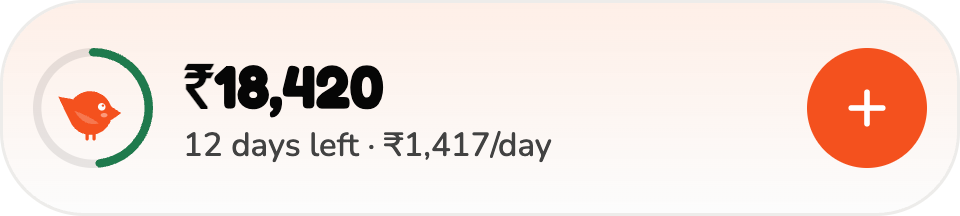
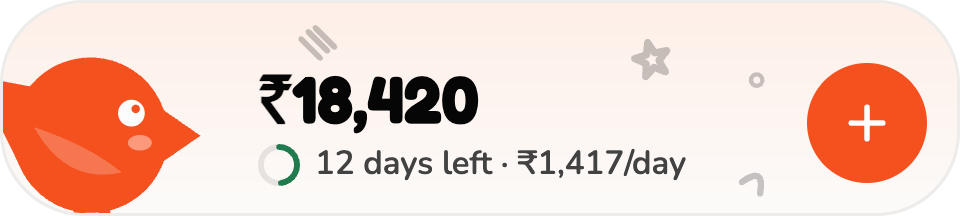
feat(widgets): bar widget gets the peeking bird, bolder band doodles, true pill chips
The 4x1 bar still had the ring-and-bird header. It now matches the other
two: the bird hangs off the left edge, the number sits beside it with the
small ring gauge and per-day line, and the + stays at the right, over its
own doodle set and the mood wash. The bar takes its cell width now so the
doodles scale to it.

The large widget's band doodles were a whisper on a real screen, so the
wide and strip sets draw bigger and at 1.6x the square card's opacity.

The quick-log chips and + buttons used a 100dp corner radius. Android's
GradientDrawable doesn't clamp that past half the height; it draws oval
ends, which is what the chips looked like on device. Radius is now half
the height everywhere.

diff --git a/src/widgets/EnvelopeBarWidget.tsx b/src/widgets/EnvelopeBarWidget.tsx
@@ -1,70 +1,90 @@
 // The 4x1 "bar" widget: one line, no resize. Same snapshot as the large
-// widget: the bird ring, the hero number with days left and per-day beside
-// it, and a round + to log.
-import { FlexWidget, SvgWidget, TextWidget } from 'react-native-android-widget'
+// widget: the bird peeking in off the left edge, the hero number with the
+// ring gauge, days left and per-day under it, and a round + to log.
+import { FlexWidget, OverlapWidget, SvgWidget, TextWidget } from 'react-native-android-widget'
 import type { ThemeTokens } from '@/src/theme/tokens'
 import { fontFamily } from '@/src/theme/fonts'
 import { heroFontSize, widgetMood, withPerDay, type WidgetData } from './data'
 import { WidgetSurface, color } from './surface'
 import { plusSvg } from './icons'
-import { birdRingFrames, birdRingSvg, FRAME_MS } from './bird'
+import { birdFrames, birdSvg, FRAME_MS, heroTint, ringSvg } from './bird'
+import { doodlesSvg } from './doodles'
 
 const LOG_URI = 'envelope://modals/log-expense'
 
 export function EnvelopeBarWidget({
   tokens,
   scheme,
-  height,
+  width = 320,
+  height = 64,
   ...data
 }: WidgetData & {
   tokens: ThemeTokens
   scheme: 'light' | 'dark'
-  /** Cell height in dp, when known. The provider's floor is 40dp, where a
-   *  40dp ring plus padding would clip; most launchers hand out far more. */
+  /** Cell size in dp, when known. The provider's floor is 40dp tall, where
+   *  the two text lines alone fill the card; most launchers hand out far more. */
+  width?: number
   height?: number
 }) {
   const mood = widgetMood(data)
-  const ring = Math.max(28, Math.min(40, (height ?? 64) - 12))
+  const plus = Math.max(28, Math.min(40, height - 12))
+  // Taller than the card so the head clips at the top and the feet sit on
+  // the bottom edge: peeking in, not placed.
+  const bird = Math.round(height * 1.3)
+  const birdW = bird - Math.round(bird * 0.16)
   return (
-    <WidgetSurface
-      tokens={tokens}
-      scheme={scheme}
-      style={{ paddingLeft: 10, paddingRight: 10, paddingVertical: 6, flexDirection: 'row', alignItems: 'center' }}
-    >
-      <SvgWidget svg={birdRingSvg({ mood, leftPct: data.leftPct, tokens, scheme })} frames={birdRingFrames({ mood, leftPct: data.leftPct, tokens, scheme })} frameInterval={FRAME_MS} style={{ width: ring, height: ring }} />
-      <FlexWidget style={{ flex: 1, flexDirection: 'column', marginLeft: 10, marginRight: 8 }}>
-        <TextWidget
-          text={data.totalLeft}
-          truncate="END"
-          maxLines={1}
-          style={{
-            fontSize: heroFontSize(data.totalLeft, 20),
-            fontFamily: fontFamily.displayBold,
-            color: color(data.overspent ? tokens.coral : tokens.text),
-          }}
-        />
-        <TextWidget
-          text={withPerDay(data)}
-          truncate="END"
-          maxLines={1}
-          style={{ fontSize: 11, fontFamily: fontFamily.bodyMedium, color: color(tokens.text2) }}
-        />
-      </FlexWidget>
-      <FlexWidget
-        clickAction="OPEN_URI"
-        clickActionData={{ uri: LOG_URI }}
-        accessibilityLabel="Log an expense"
-        style={{
-          width: ring,
-          height: ring,
-          alignItems: 'center',
-          justifyContent: 'center',
-          borderRadius: 100,
-          backgroundColor: color(tokens.accent),
-        }}
-      >
-        <SvgWidget svg={plusSvg(tokens.onAccent)} style={{ width: 18, height: 18 }} />
-      </FlexWidget>
+    <WidgetSurface tokens={tokens} scheme={scheme} mood={mood} style={{ padding: 0 }}>
+      <OverlapWidget style={{ width: 'match_parent', height: 'match_parent' }}>
+        <SvgWidget svg={doodlesSvg(width, height, tokens, scheme)} style={{ width: 'match_parent', height: 'match_parent' }} />
+        <FlexWidget style={{ width: 'match_parent', height: 'match_parent', flexDirection: 'column', alignItems: 'flex-start', justifyContent: 'flex-end' }}>
+          <SvgWidget
+            svg={birdSvg({ mood, tokens, scheme })}
+            frames={birdFrames({ mood, tokens, scheme })}
+            frameInterval={FRAME_MS}
+            style={{ width: bird, height: Math.round(bird * 0.85), marginLeft: -Math.round(bird * 0.16) }}
+          />
+        </FlexWidget>
+        <FlexWidget style={{ width: 'match_parent', height: 'match_parent', flexDirection: 'row', alignItems: 'center', paddingLeft: birdW + 6, paddingRight: 10 }}>
+          <FlexWidget style={{ flex: 1, flexDirection: 'column', marginRight: 8 }}>
+            <TextWidget
+              text={data.totalLeft}
+              truncate="END"
+              maxLines={1}
+              style={{
+                fontSize: heroFontSize(data.totalLeft, 22),
+                fontFamily: fontFamily.displayBold,
+                color: color(heroTint(mood, tokens)),
+              }}
+            />
+            <FlexWidget style={{ width: 'match_parent', flexDirection: 'row', alignItems: 'center', marginTop: 1 }}>
+              <SvgWidget svg={ringSvg({ mood, leftPct: data.leftPct, tokens }, '', 14)} style={{ width: 14, height: 14, marginRight: 5 }} />
+              <FlexWidget style={{ flex: 1 }}>
+                <TextWidget
+                  text={withPerDay(data)}
+                  truncate="END"
+                  maxLines={1}
+                  style={{ fontSize: 11, fontFamily: fontFamily.bodySemiBold, color: color(tokens.text2) }}
+                />
+              </FlexWidget>
+            </FlexWidget>
+          </FlexWidget>
+          <FlexWidget
+            clickAction="OPEN_URI"
+            clickActionData={{ uri: LOG_URI }}
+            accessibilityLabel="Log an expense"
+            style={{
+              width: plus,
+              height: plus,
+              alignItems: 'center',
+              justifyContent: 'center',
+              borderRadius: plus / 2,
+              backgroundColor: color(tokens.accent),
+            }}
+          >
+            <SvgWidget svg={plusSvg(tokens.onAccent)} style={{ width: 18, height: 18 }} />
+          </FlexWidget>
+        </FlexWidget>
+      </OverlapWidget>
     </WidgetSurface>
   )
 }

diff --git a/src/widgets/doodles.ts b/src/widgets/doodles.ts
@@ -3,7 +3,7 @@
 // under the hero number, drawn in the text color at a whisper of opacity.
 //
 // Glyph coordinates are in a 100x100 box; `place` scales each one onto the
-// card so a wide card and a square one share the same set.
+// card so a wide card and a square one can share a glyph.
 import type { ThemeTokens } from "@/src/theme/tokens";
 
 const GLYPH = {
@@ -33,12 +33,21 @@ const SQUARE: Spot[] = [
 
 /** The large widget's header band: bird top-left, number and label to its
  *  right, pills across the full width underneath. Only the strip above and
- *  beside the number is free, so the band gets fewer glyphs than the card. */
+ *  beside the number is free, so the band gets fewer, bigger glyphs. */
 const WIDE: Spot[] = [
-  { glyph: "star", x: 0.93, y: 0.12, size: 20, rotate: -14 },
-  { glyph: "arc", x: 0.76, y: 0.2, size: 18, rotate: 32 },
-  { glyph: "ring", x: 0.97, y: 0.48, size: 14, rotate: 0 },
-  { glyph: "stripes", x: 0.34, y: 0.08, size: 14, rotate: 0 },
+  { glyph: "star", x: 0.92, y: 0.14, size: 26, rotate: -14 },
+  { glyph: "arc", x: 0.74, y: 0.18, size: 24, rotate: 32 },
+  { glyph: "ring", x: 0.96, y: 0.5, size: 18, rotate: 0 },
+  { glyph: "stripes", x: 0.33, y: 0.09, size: 18, rotate: 0 },
+];
+
+/** The bar: bird off the left edge, number and label in the middle, + at
+ *  the right. The glyphs sit in the gap between the label and the +. */
+const STRIP: Spot[] = [
+  { glyph: "star", x: 0.68, y: 0.2, size: 20, rotate: -14 },
+  { glyph: "ring", x: 0.79, y: 0.3, size: 12, rotate: 0 },
+  { glyph: "arc", x: 0.79, y: 0.76, size: 18, rotate: 32 },
+  { glyph: "stripes", x: 0.33, y: 0.12, size: 16, rotate: 0 },
 ];
 
 export function doodlesSvg(
@@ -47,9 +56,10 @@ export function doodlesSvg(
   tokens: ThemeTokens,
   scheme: "light" | "dark",
 ): string {
-  const spots = width > height * 1.4 ? WIDE : SQUARE;
+  const spots = width > height * 3 ? STRIP : width > height * 1.4 ? WIDE : SQUARE;
   // Dark surfaces swallow a hairline; light ones show it at half the strength.
-  const opacity = scheme === "dark" ? 0.2 : 0.14;
+  // The square card's whisper vanished on the wider cards, so those go bolder.
+  const opacity = (scheme === "dark" ? 0.2 : 0.14) * (spots === SQUARE ? 1 : 1.6);
   const glyphs = spots
     .map(({ glyph, x, y, size, rotate }) => {
       const s = size / 100;

diff --git a/src/widgets/EnvelopeWidget.tsx b/src/widgets/EnvelopeWidget.tsx
@@ -372,6 +372,8 @@ export function EnvelopeWidget({
           paddingBottom: 14,
         }}
       >
+        {/* Half the height, not "big": Android's GradientDrawable doesn't clamp a
+            corner radius past that, it draws oval ends. */}
         {chips.map((chip) => (
           <FlexWidget
             key={chip.category}
@@ -383,7 +385,7 @@ export function EnvelopeWidget({
               height: layout.actionHeight,
               alignItems: "center",
               justifyContent: "center",
-              borderRadius: 100,
+              borderRadius: layout.actionHeight / 2,
               backgroundColor: color(tokens.chipActiveBg),
             }}
           >
@@ -408,7 +410,7 @@ export function EnvelopeWidget({
             height: layout.actionHeight,
             alignItems: "center",
             justifyContent: "center",
-            borderRadius: 100,
+            borderRadius: layout.actionHeight / 2,
             backgroundColor: color(tokens.accent),
           }}
         >

diff --git a/scripts/widget-previews/trees.preview.tsx b/scripts/widget-previews/trees.preview.tsx
@@ -69,7 +69,7 @@ function tree(name: keyof typeof WIDGETS, data: WidgetData, scheme: "light" | "d
     case "envelope":
       return buildWidgetTree(<EnvelopeWidget {...data} tokens={tokens} scheme={scheme} width={width} height={height} />);
     case "envelopebar":
-      return buildWidgetTree(<EnvelopeBarWidget {...data} tokens={tokens} scheme={scheme} height={height} />);
+      return buildWidgetTree(<EnvelopeBarWidget {...data} tokens={tokens} scheme={scheme} width={width} height={height} />);
     case "envelopemini":
       return buildWidgetTree(<EnvelopeMiniWidget {...data} tokens={tokens} scheme={scheme} width={width} />);
   }

diff --git a/src/widgets/EnvelopeMiniWidget.tsx b/src/widgets/EnvelopeMiniWidget.tsx
@@ -90,7 +90,7 @@ export function EnvelopeMiniWidget({
                 height: 40,
                 alignItems: "center",
                 justifyContent: "center",
-                borderRadius: 100,
+                borderRadius: 20,
                 backgroundColor: color(tokens.accent),
               }}
             >

diff --git a/src/widgets/widget-task-handler.tsx b/src/widgets/widget-task-handler.tsx
@@ -42,6 +42,7 @@ export async function widgetTaskHandler(props: WidgetTaskHandlerProps) {
                 {...data}
                 tokens={tokens}
                 scheme={scheme}
+                width={width}
                 height={height}
               />
             )),

diff --git a/src/widgets/WidgetSync.tsx b/src/widgets/WidgetSync.tsx
@@ -92,6 +92,7 @@ export function WidgetSync() {
             {...data}
             tokens={tokens}
             scheme={scheme}
+            width={info.width}
             height={info.height}
           />
         )),
